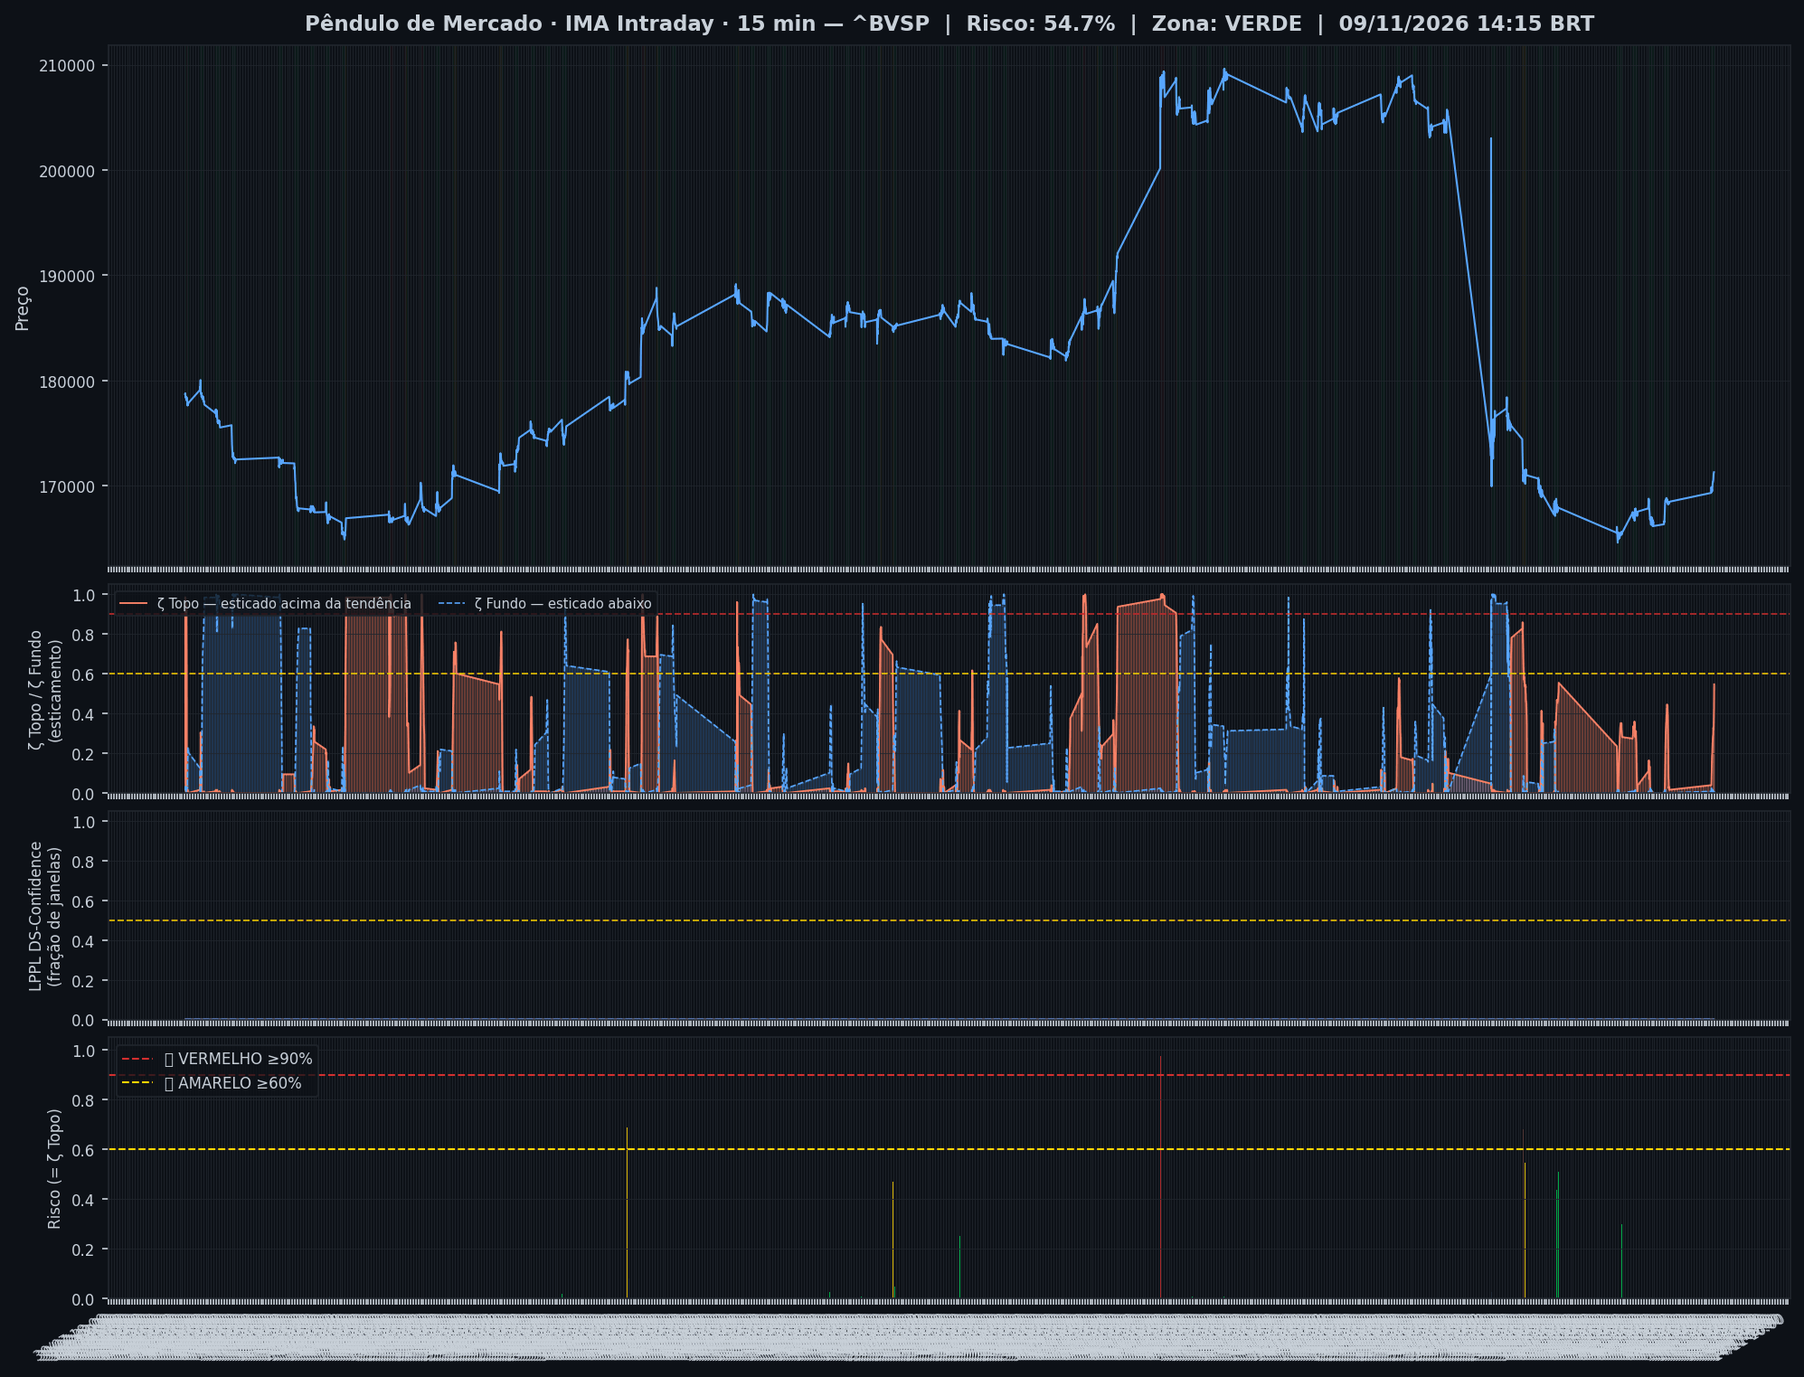
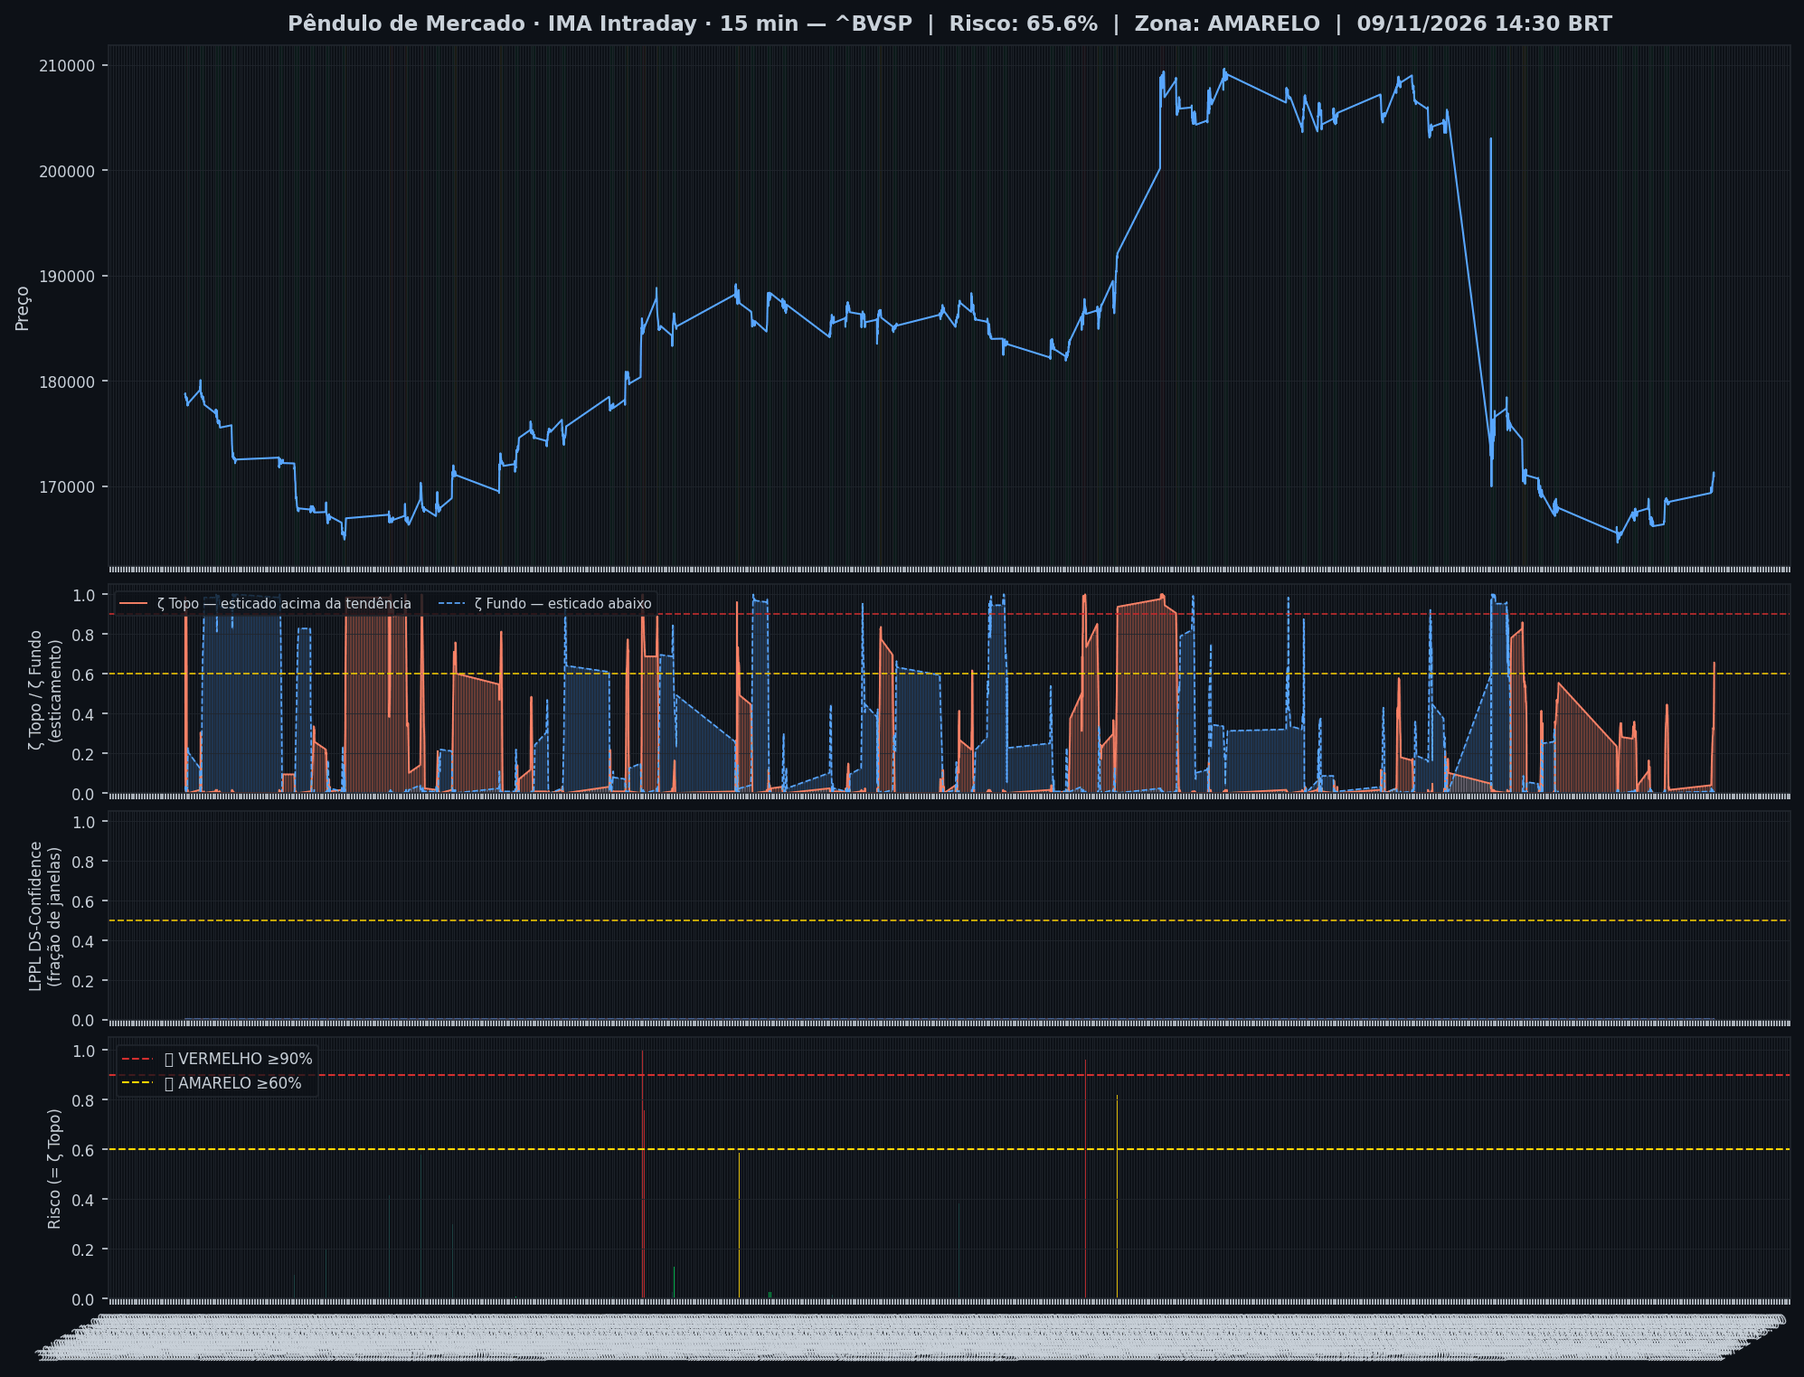
🤖 Auto: Sinal 09/11/2026 14:46

Changed region(s): [[0.0932, 0.432, 0.9634, 0.5863], [0.0311, 0.9258, 0.9945, 0.9875], [0.1554, 0.0, 0.9013, 0.0309]]

diff --git a/content/intraday/2026-11-09.md b/content/intraday/2026-11-09.md
@@ -1,13 +1,13 @@
 ---
-title: "🟢 Intraday 09/11/2026 14:15 BRT — VERDE"
+title: "🟡 Intraday 09/11/2026 14:30 BRT — AMARELO"
 date: 2026-11-09
 tags: [intraday]
 ---
 
-> [!success] Onde o mercado está agora (09/11 14:15, candles de 15 min): **🟢 Calmo**
-> `Pânico ◀───────────────●─────▶ Euforia`
+> [!warning] Onde o mercado está agora (09/11 14:30, candles de 15 min): **🟡 Esticado para cima**
+> `Pânico ◀─────────────────●───▶ Euforia`
 >
-> O Ibovespa está dentro da sua faixa normal, sem excesso para cima nem para baixo.
+> O Ibovespa subiu mais rápido que o normal e está acima da sua faixa habitual.
 > No gráfico diário: 🔪 Queda forte em curso.
 >
 > *Leitura educacional baseada em 26 anos de dados. Não é recomendação de investimento.*
@@ -20,25 +20,26 @@ tags: [intraday]
 > | 📍 **Sinais** | hoje: nenhum sinal | [abrir](sinais-topo-fundo/) |
 > | 🧪 **Placar ao vivo** | 1 operação(ões), 0 com lucro, soma -0,8% | [abrir](operacoes/) |
 
-> [!success] IMA Intraday · 15 min (09/11 14:15): 🟢 **VERDE** — Risco 55% · ▲ +12 p.p. vs leitura anterior
-> `███████████░░░░░░░░░`
-> Preço na faixa normal em torno da tendência.
+> [!warning] IMA Intraday · 15 min (09/11 14:30): 🟡 **AMARELO** — Risco 66% · ▲ +11 p.p. vs leitura anterior
+> `█████████████░░░░░░░`
+> Atenção — preço esticado acima da tendência.
 
 
-
+> [!warning] ⚠ Nível alto agora — IMA Intraday · 15 min (09/11 14:30)
+> - 🟡 **ζ Topo 66%** — preço esticado acima da tendência (risco de reversão)
 
 > [!note] 🧭 IMA Diário · viés (06/11): 🔪 **Queda forte em curso**
 > 📚 historicamente, quedas assim costumaram continuar um pouco antes de virar
 >
 > *Leitura educacional baseada em 26 anos de dados, não recomendação. [Como usar](../metodologia/crise#3-como-usar-na-prática).*
 
-| Indicador — IMA Intraday · 15 min (09/11 14:15) | Valor |
+| Indicador — IMA Intraday · 15 min (09/11 14:30) | Valor |
 |---|---|
-| 🔴 ζ Topo — preço esticado acima da tendência | **55%** |
+| 🔴 ζ Topo — preço esticado acima da tendência | 🟡 **66%** |
 | 🔵 ζ Fundo — preço esticado abaixo da tendência | 0% |
 | 🫧 LPPL bolha — alta super-exponencial (risco de crash) | 0% |
 | 🫧 LPPL antibolha — queda super-exponencial (risco de repique) | 0% |
-| 📊 Ibovespa | 171.305 pts |
+| 📊 Ibovespa | 170.943 pts |
 
 ![Gráfico do sinal](../graficos/sinal_intraday.png)
 
@@ -46,6 +47,7 @@ tags: [intraday]
 
 | Data | Zona | Evento | Risco | ζ Topo | ζ Fundo | LPPL |
 |---|---|---|---|---|---|---|
+| 2026-11-09 14:30 | 🟡 AMARELO |  | 🟡 **66%** | 🟡 **66%** | 0% | 0% |
 | 2026-11-09 14:15 | 🟢 VERDE |  | **55%** | 55% | 0% | 0% |
 | 2026-11-09 14:00 | 🟢 VERDE |  | **43%** | 43% | 1% | 0% |
 | 2026-11-09 13:45 | 🟢 VERDE |  | **37%** | 37% | 0% | 0% |
@@ -75,50 +77,49 @@ tags: [intraday]
 | 2026-11-06 16:00 | 🟢 VERDE |  | **28%** | 28% | 0% | 0% |
 | 2026-11-06 15:45 | 🟢 VERDE |  | **34%** | 34% | 0% | 0% |
 | 2026-11-06 15:30 | 🟢 VERDE |  | **39%** | 39% | 0% | 0% |
-| 2026-11-06 15:15 | 🟢 VERDE |  | **41%** | 41% | 0% | 0% |
 
 <small>Destaques: 🟡 ≥ 60% · 🔴 ≥ 90% (Risco e ζ Topo) · 🔵 ≥ 60% · 🔪 ≥ 90% (ζ Fundo) · 🫧 ≥ 30% · 🫧🔴 ≥ 50% (LPPL)</small>
 
 ## Monitor Multi-Ativo
 
-**4% dos ativos em tensão** (0🔴 2🟡) · **0 com ζ Fundo alto** — quanto mais ativos disparam juntos, mais confiável o sinal.
+**4% dos ativos em tensão** (0🔴 1🟡) · **0 com ζ Fundo alto** — quanto mais ativos disparam juntos, mais confiável o sinal.
 
 > [!warning] Em destaque no multi-ativo
-> 🟡 **VIBRA** ζ Topo 64%
+> 🟡 **VIBRA** ζ Topo 66%
 
 | Zona | Ativo | Setor | ζ Topo | ζ Fundo |
 |---|---|---|---|---|
-| 🟡 | **VIBRA** | Energia | 🟡 **64.1%** | 0.0% |
-| 🟢 | **ULTRAPAR** | Outros | 53.1% | 0.0% |
-| 🟢 | **WEG** | Industrial | 51.6% | 0.0% |
-| 🟢 | **VALE** | Mineração | 49.2% | 0.0% |
-| 🟡 | **SABESP** | Saneamento | 47.7% | 0.0% |
-| 🟢 | **PRIO** | Petróleo | 0.0% | 39.8% |
-| 🟢 | **EMBRAER** | Outros | 33.6% | 0.0% |
-| 🟢 | **B3** | Financeiro | 30.5% | 0.8% |
+| 🟡 | **VIBRA** | Energia | 🟡 **66.4%** | 0.0% |
+| 🟢 | **ULTRAPAR** | Outros | 54.7% | 0.0% |
+| 🟢 | **WEG** | Industrial | 52.3% | 0.0% |
+| 🟢 | **VALE** | Mineração | 45.3% | 0.0% |
+| 🟢 | **SABESP** | Saneamento | 42.2% | 0.0% |
+| 🟢 | **PRIO** | Petróleo | 1.6% | 40.6% |
+| 🟢 | **B3** | Financeiro | 36.7% | 0.0% |
+| 🟢 | **EMBRAER** | Outros | 29.7% | 0.0% |
+| 🟢 | **ITAUSA** | Financeiro | 26.6% | 0.0% |
 | 🟢 | **PETROBRAS** | Petróleo | 0.0% | 25.8% |
-| 🟢 | **ITAUSA** | Financeiro | 25.8% | 0.0% |
-| 🟢 | **GERDAU** | Siderurgia | 25.8% | 0.0% |
 | 🟢 | **PETROBRAS** | Petróleo | 0.0% | 25.0% |
-| 🟢 | **EQUATORIAL** | Energia | 18.0% | 0.0% |
-| 🟢 | **AMBEV S/A** | Consumo | 15.6% | 0.0% |
-| 🟢 | **BRADESCO** | Financeiro | 13.3% | 0.0% |
-| 🟢 | **ENEVA** | Energia | 12.5% | 0.0% |
-| 🟢 | **USD/BRL** | Câmbio | 0.0% | 10.2% |
-| 🟢 | **BRASIL** | Financeiro | 0.8% | 9.4% |
-| 🟢 | **ITAUUNIBANCO** | Financeiro | 7.8% | 0.0% |
-| 🟢 | **LOCALIZA** | Aluguel | 7.0% | 0.0% |
-| 🟢 | **REDE D OR** | Saúde | 6.2% | 0.0% |
-| 🟢 | **SUZANO S.A.** | Papel/Celulose | 5.5% | 0.0% |
-| 🟢 | **BTGP BANCO** | Financeiro | 3.9% | 1.6% |
-| 🟢 | **COPEL** | Energia | 3.1% | 0.0% |
+| 🟢 | **AMBEV S/A** | Consumo | 22.7% | 0.0% |
+| 🟢 | **GERDAU** | Siderurgia | 21.9% | 0.0% |
+| 🟢 | **EQUATORIAL** | Energia | 14.8% | 0.0% |
+| 🟢 | **BRASIL** | Financeiro | 0.8% | 12.5% |
+| 🟢 | **USD/BRL** | Câmbio | 0.0% | 12.5% |
+| 🟢 | **BRADESCO** | Financeiro | 10.2% | 0.0% |
+| 🟢 | **REDE D OR** | Saúde | 10.2% | 0.0% |
+| 🟢 | **ITAUUNIBANCO** | Financeiro | 7.0% | 0.0% |
+| 🟢 | **BTGP BANCO** | Financeiro | 6.2% | 0.0% |
+| 🟢 | **ENEVA** | Energia | 5.5% | 0.0% |
+| 🟢 | **SUZANO S.A.** | Papel/Celulose | 3.9% | 0.0% |
+| 🟢 | **LOCALIZA** | Aluguel | 3.1% | 0.0% |
+| 🟢 | **COPEL** | Energia | 0.8% | 0.0% |
 | 🟢 | **AXIA ENERGIA** | Energia | 0.0% | 0.0% |
 
 <small>Destaques: 🟡 ≥ 60% · 🔴 ≥ 90% (Risco e ζ Topo) · 🔵 ≥ 60% · 🔪 ≥ 90% (ζ Fundo) · 🫧 ≥ 30% · 🫧🔴 ≥ 50% (LPPL)</small>
 
 ![Monitor multi-ativo](../graficos/multi_intraday.png)
 
-*Página atualizada em 09/11/2026 14:31 BRT (leitura da barra de 2026-11-09 14:15 BRT).*
+*Página atualizada em 09/11/2026 14:46 BRT (leitura da barra de 2026-11-09 14:30 BRT).*
 
 > [!warning] O que este indicador não faz
 > Medido em 5 anos de Ibovespa, o ζ **não antecipa** topos nem fundos: a capacidade de separar o que sobe do que cai ficou em 0,49–0,52, e 0,50 é moeda jogada ao ar. Ele descreve o estado de agora; não é aviso do que vem. As zonas verde/amarelo/vermelho continuam na página como descrição desse estado — **não as use como sinal de entrada ou saída**.

diff --git a/content/index.md b/content/index.md
@@ -6,21 +6,24 @@ tags: [home]
 
 **As ondas do mercado, explicadas.** Leitura do Ibovespa com estatística de 26 anos, baseada no trabalho de pesquisadores e traders reconhecidos e adaptada por Jarbas Daniel da Costa.
 
-*Última atualização: 09/11/2026 14:31 BRT · Intraday 15min*
+*Última atualização: 09/11/2026 14:46 BRT · Intraday 15min*
 
-> [!success] Onde o mercado está agora (09/11 14:15, candles de 15 min): **🟢 Calmo**
-> `Pânico ◀───────────────●─────▶ Euforia`
+> [!warning] Onde o mercado está agora (09/11 14:30, candles de 15 min): **🟡 Esticado para cima**
+> `Pânico ◀─────────────────●───▶ Euforia`
 >
-> O Ibovespa está dentro da sua faixa normal, sem excesso para cima nem para baixo.
+> O Ibovespa subiu mais rápido que o normal e está acima da sua faixa habitual.
 > No gráfico diário: 🔪 Queda forte em curso.
 >
 > *Leitura educacional baseada em 26 anos de dados. Não é recomendação de investimento.*
+
+> [!warning] ⚠ Nível alto agora — IMA Intraday · 15 min (09/11 14:30)
+> - 🟡 **ζ Topo 66%** — preço esticado acima da tendência (risco de reversão)
 
 ## Agora
 
 | Módulo | Agora | |
 |---|---|---|
-| 🌊 **Sinal IMA** | 🟢 VERDE · 🟢 calmo · ζ Topo 55% | [relatório](intraday/2026-11-09) |
+| 🌊 **Sinal IMA** | 🟡 AMARELO · 🟡 esticado para cima · ζ Topo 🟡 **66%** | [relatório](intraday/2026-11-09) |
 | 📈 **Tendência MME9** | Diário — fora<br>Semanal — fora | [abrir](operacoes/tendencia) |
 | 🎯 **Entradas do método** | ⏳ aguardando: Diário · Nadaraya, Diário · Semáforo N3 após ζ Fundo | [abrir](operacoes/entradas) |
 | 📍 **Sinais** | hoje: nenhum sinal | [abrir](sinais-topo-fundo/) |
@@ -35,11 +38,11 @@ tags: [home]
 
 | Data e hora | Módulo | Evento | Detalhe | 📲 |
 |---|---|---|---|---|
+| **09/11/2026 14:46** | IMA · 15 min | 🟡 Zona mudou: VERDE → AMARELO | Risco 66% · ζ Topo 66% · ζ Fundo 0% · LPPL 0% | — |
+| **09/11/2026 14:46** | IMA · 15 min | 🟡 ζ Topo entrou em nível alto | Risco 66% · ζ Topo 66% · ζ Fundo 0% · LPPL 0% | ✅ |
 | **03/11/2026 19:06** | IMA · diário | 🔪 Evento: Queda forte em curso ⏱ | ζ Fundo passou de 90% · Depois disso, só 42% subiu em 3 meses (dia qualquer: 60%); metade das vezes caiu mais 5% no mês. | ✅ |
 | **03/11/2026 19:06** | IMA · diário | 🔪 ζ Fundo entrou em nível EXTREMO | Risco 0% · ζ Topo 0% · ζ Fundo 95% · LPPL 0% | — |
 | **03/11/2026 10:00** | Tendência · Semanal | 🔴 Saiu durante o pregão ⚡ | ⚡ O preço tocou 167.008 às 10:00: pela regra a ordem stop de venda executa ali (preço considerado 167.008). | ✅ |
-| 31/10/2026 <small>18:00 fechamento</small> | Sinais · Mensal | 🟠 Topo (proteção) · TT+RSI ⏱ | Top tail + RSI≥70 · acertou 38% · 2,5× o acaso | — |
-| **30/10/2026 19:06** | IMA · diário | 🔵 ζ Fundo entrou em nível alto | Risco 0% · ζ Topo 0% · ζ Fundo 66% · LPPL 0% | — |
 
 *[Linha do tempo completa](linha-do-tempo/) — todo sinal, ordem, stop e aviso, do mais recente para o mais antigo. ⚡ = vale durante o pregão · ⏱ = no fechamento.*
 
@@ -49,26 +52,26 @@ tags: [home]
 > *Leitura educacional baseada em 26 anos de dados, não recomendação. [Como usar](metodologia/crise#3-como-usar-na-prática).*
 
 > [!info]- 🌊 Detalhes do Sinal IMA (indicadores e últimos 7 pregões)
-> > [!success] IMA Intraday · 15 min (09/11 14:15): 🟢 **VERDE** — Risco 55% · ▲ +12 p.p. vs leitura anterior
-> > `███████████░░░░░░░░░`
-> > Preço na faixa normal em torno da tendência.
+> > [!warning] IMA Intraday · 15 min (09/11 14:30): 🟡 **AMARELO** — Risco 66% · ▲ +11 p.p. vs leitura anterior
+> > `█████████████░░░░░░░`
+> > Atenção — preço esticado acima da tendência.
 >
 >
-> | Indicador — IMA Intraday · 15 min (09/11 14:15) | Valor |
+> | Indicador — IMA Intraday · 15 min (09/11 14:30) | Valor |
 > |---|---|
-> | 🔴 ζ Topo — preço esticado acima da tendência | **55%** |
+> | 🔴 ζ Topo — preço esticado acima da tendência | 🟡 **66%** |
 > | 🔵 ζ Fundo — preço esticado abaixo da tendência | 0% |
 > | 🫧 LPPL bolha — alta super-exponencial (risco de crash) | 0% |
 > | 🫧 LPPL antibolha — queda super-exponencial (risco de repique) | 0% |
-> | 📊 Ibovespa | 171.305 pts |
+> | 📊 Ibovespa | 170.943 pts |
 >
-> **Multi-ativo:** 4% em tensão (0🔴 2🟡 de 25 ativos)
+> **Multi-ativo:** 4% em tensão (0🔴 1🟡 de 25 ativos)
 >
 > **Últimos 7 pregões**
 >
 > | Data | Zona | Risco | ζ Topo | ζ Fundo | LPPL |
 > |---|---|---|---|---|---|
-> | [09/11/2026](intraday/2026-11-09) | 🟢 VERDE | **55%** | 55% | 0% | 0% |
+> | [09/11/2026](intraday/2026-11-09) | 🟡 AMARELO | 🟡 **66%** | 🟡 **66%** | 0% | 0% |
 > | [06/11/2026](intraday/2026-11-06) | 🟢 VERDE | **2%** | 2% | 0% | 0% |
 >
 > <small>Destaques: 🟡 ≥ 60% · 🔴 ≥ 90% (Risco e ζ Topo) · 🔵 ≥ 60% · 🔪 ≥ 90% (ζ Fundo) · 🫧 ≥ 30% · 🫧🔴 ≥ 50% (LPPL)</small>

diff --git a/content/linha-do-tempo/index.md b/content/linha-do-tempo/index.md
@@ -5,7 +5,7 @@ description: "Todo sinal, ordem, stop e aviso do Pêndulo de Mercado, do mais re
 tags: [eventos]
 ---
 
-*Atualizada 09/11/2026 14:31 BRT · a cada 15 min no pregão e às 19h.*
+*Atualizada 09/11/2026 14:46 BRT · a cada 15 min no pregão e às 19h.*
 
 Tudo o que o sistema fez ou detectou, **do mais recente para o mais antigo**: sinais de topo e fundo, ordens de compra e de venda armadas, compras, vendas, stops, avisos de 🚨 preço perto do nível e mudanças do Sinal IMA. Os **últimos 7 dias** ficam abertos; o resto, por **ano → mês → dia**.
 
@@ -18,9 +18,12 @@ Tudo o que o sistema fez ou detectou, **do mais recente para o mais antigo**: si
 
 ## Últimos 7 dias
 
-### Hoje · seg, 09/11/2026
+### Hoje · seg, 09/11/2026 · 2 eventos
 
-*Nenhum evento hoje até agora.*
+| Hora | Módulo | Evento | Detalhe | 📲 |
+|---|---|---|---|---|
+| **14:46** | IMA · 15 min | 🟡 Zona mudou: VERDE → AMARELO | Risco 66% · ζ Topo 66% · ζ Fundo 0% · LPPL 0% | — |
+| **14:46** | IMA · 15 min | 🟡 ζ Topo entrou em nível alto | Risco 66% · ζ Topo 66% · ζ Fundo 0% · LPPL 0% | ✅ |
 
 ### ter, 03/11/2026 · 3 eventos
 
@@ -36,7 +39,7 @@ Clique no ano; na página do ano, clique no mês e depois no dia.
 
 | Ano | Eventos | 🟢 Compras | ⚪🔴 Vendas e stops | 📌⚠ Ordens armadas | Sinais |
 |---|---|---|---|---|---|
-| **[2026](linha-do-tempo/2026)** | 205 | 22 | 41 | 32 | 42 |
+| **[2026](linha-do-tempo/2026)** | 207 | 22 | 41 | 32 | 42 |
 | **[2025](linha-do-tempo/2025)** | 113 | 30 | 25 | 43 | 11 |
 | **[2024](linha-do-tempo/2024)** | 156 | 41 | 45 | 57 | 3 |
 | **[2023](linha-do-tempo/2023)** | 99 | 22 | 22 | 53 | 1 |

diff --git a/content/operacoes/entradas.md b/content/operacoes/entradas.md
@@ -31,7 +31,7 @@ description: "Compra depois de um sinal de fundo: Nadaraya no diário, semáforo
 > | Diário · Semáforo N3 após ζ Fundo | 07/07/26 a 172.021 | 10/08/26 a 172.021 | **+0,0%** | stop no preço de entrada |
 > | H4 · Semáforo N2 | 12/06/26 14h a 171.134 | 15/06/26 14h a 171.134 | **+0,0%** | stop no preço de entrada |
 >
-> <small>Atualizado 06/11 19:00 · checado no pregão às 14:30. Nota: ✅ passou no teste fora da amostra (walk-forward 2008–2026) · 🧪 em teste (H4, com aviso no Telegram) ou em observação (ζ, sem aviso) · 🧪 na tabela = operação do teste ao vivo.</small>
+> <small>Atualizado 06/11 19:00 · checado no pregão às 14:45. Nota: ✅ passou no teste fora da amostra (walk-forward 2008–2026) · 🧪 em teste (H4, com aviso no Telegram) ou em observação (ζ, sem aviso) · 🧪 na tabela = operação do teste ao vivo.</small>
 >
 > *Regras: depois de um sinal de fundo, o Diário entra quando o Nadaraya vira para cima; o Semanal e o H4 entram quando um fundo do semáforo fica fixo. Stop e saída de cada regra na [metodologia](metodologia/regras-de-operacao#entradas-do-método). Nenhuma regra de venda passou no teste. Os números do histórico têm viés de escolha (overfitting); o placar ao vivo é o que vale. Leitura educacional do método, não recomendação.*
 

diff --git a/content/linha-do-tempo/2026.md b/content/linha-do-tempo/2026.md
@@ -5,9 +5,16 @@ description: "Todos os eventos de 2026, por mês e por dia"
 tags: [eventos]
 ---
 
-[← Linha do tempo](linha-do-tempo/) · **205 eventos em 2026**. Clique no mês e depois no dia. ⚡ = vale durante o pregão · ⏱ = no fechamento · 📲 ✅ avisado, — sem aviso, 📜 histórico simulado.
+[← Linha do tempo](linha-do-tempo/) · **207 eventos em 2026**. Clique no mês e depois no dia. ⚡ = vale durante o pregão · ⏱ = no fechamento · 📲 ✅ avisado, — sem aviso, 📜 histórico simulado.
 
-> [!abstract]- Novembro de 2026 · 3 eventos <small>(0 compras · 1 vendas/stops · 0 ordens armadas · 0 sinais)</small>
+> [!abstract]- Novembro de 2026 · 5 eventos <small>(0 compras · 1 vendas/stops · 0 ordens armadas · 0 sinais)</small>
+>
+> > [!note] seg, 09/11/2026 · 2 eventos 🟡
+> >
+> > | Hora | Módulo | Evento | Detalhe | 📲 |
+> > |---|---|---|---|---|
+> > | **14:46** | IMA · 15 min | 🟡 Zona mudou: VERDE → AMARELO | Risco 66% · ζ Topo 66% · ζ Fundo 0% · LPPL 0% | — |
+> > | **14:46** | IMA · 15 min | 🟡 ζ Topo entrou em nível alto | Risco 66% · ζ Topo 66% · ζ Fundo 0% · LPPL 0% | ✅ |
 >
 > > [!note] ter, 03/11/2026 · 3 eventos 🔪 🔴
 > >

diff --git a/content/historico.md b/content/historico.md
@@ -5,7 +5,7 @@ tags: [historico]
 
 # 📜 Histórico de leituras (v5)
 
-**2.228 leituras** desde 2026-07-03. Na página ficam os últimos 3 dias leitura por leitura e o resumo de cada dia anterior; o registro inteiro está no arquivo para baixar.
+**2.229 leituras** desde 2026-07-03. Na página ficam os últimos 3 dias leitura por leitura e o resumo de cada dia anterior; o registro inteiro está no arquivo para baixar.
 
 [**Baixar o histórico completo**](historico-completo.csv) (98 KB · abre no Excel e no LibreOffice)
 
@@ -16,6 +16,7 @@ tags: [historico]
 
 | Data | Modo | Zona | Risco | IMA | LPPL |
 |---|---|---|---|---|---|
+| 2026-11-09 14:30 | intraday | 🟡 AMARELO | 🟡 **66%** | 🟡 **66%** | 0% |
 | 2026-11-09 14:15 | intraday | 🟢 VERDE | 55% | 55% | 0% |
 | 2026-11-09 14:00 | intraday | 🟢 VERDE | 43% | 43% | 0% |
 | 2026-11-09 13:45 | intraday | 🟢 VERDE | 37% | 37% | 0% |

diff --git a/content/operacoes/ranking.md b/content/operacoes/ranking.md
@@ -5,7 +5,7 @@ tags: [operacoes]
 description: "As regras de compra do site ordenadas pelo resultado, com treino, teste e placar ao vivo"
 ---
 
-*Atualizado 09/11/2026 14:31 · histórico simulado com as regras congeladas em 23/10/2026 + placar ao vivo.*
+*Atualizado 09/11/2026 14:46 · histórico simulado com as regras congeladas em 23/10/2026 + placar ao vivo.*
 
 As regras de compra do site, **da que mais rendeu para a que menos rendeu**. O resultado é por operação, no índice à vista, sem custos e sem juros compostos (a soma é só a soma das operações). **Treino** = entradas de 2001 a 2013 e **teste** = 2014 em diante: uma regra só é confiável se ganhou nos dois. O único resultado sem nenhum ajuste ao histórico é o **placar ao vivo**.
 
